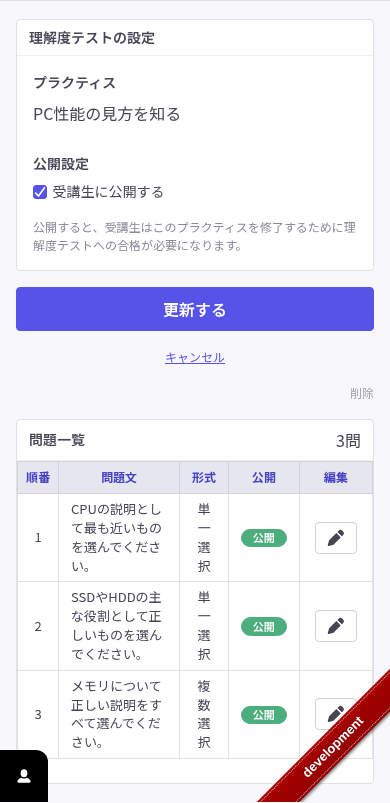
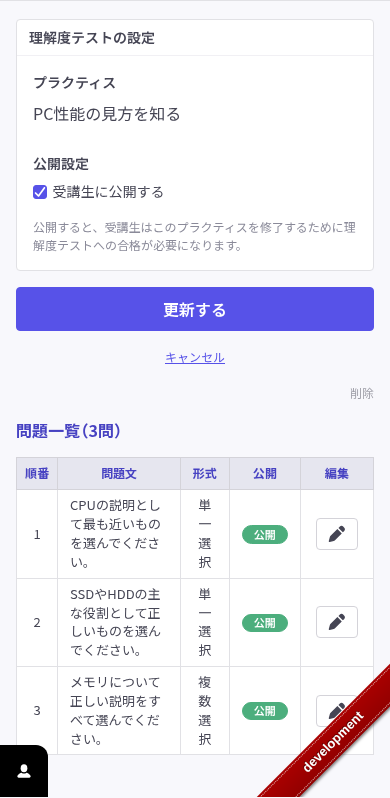
理解度テスト問題一覧のテーブル表示を修正

diff --git a/.agents/skills/bootcamp-ui-design/references/patterns.md b/.agents/skills/bootcamp-ui-design/references/patterns.md
@@ -43,7 +43,11 @@ Inspect source files instead of copying this document as markup. These are maint
 
 ## Tables and Empty States
 
-- Admin table inside a card:
+- Admin tables are standalone because `.admin-table` owns its borders, background, and corner treatment. Do not wrap an admin table in `.a-card`.
+- Use a preceding `header.page-body-header` when the table needs a local title or count.
+- Reference implementations:
+  - `app/views/mentor/categories/index.html.slim`
+  - `app/views/mentor/coding_tests/index.html.slim`
   - `app/views/mentor/practices/practice_quiz/edit.html.slim`
 - Empty state:
   - `.o-empty-message` in the same file.
